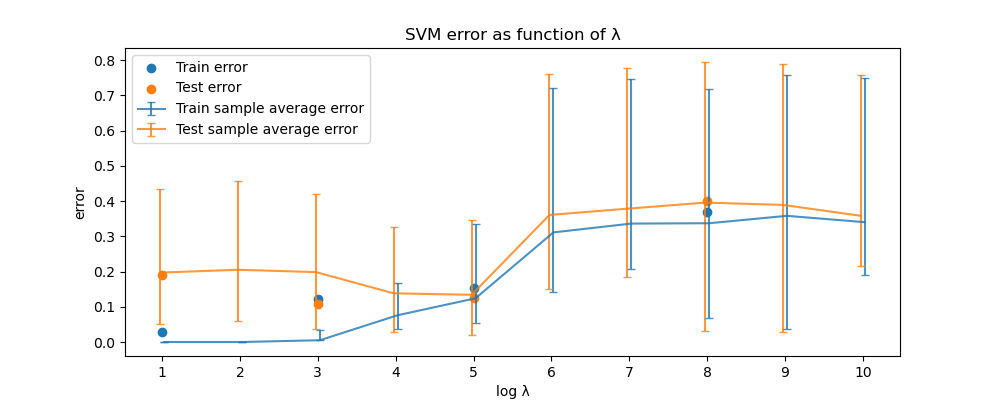
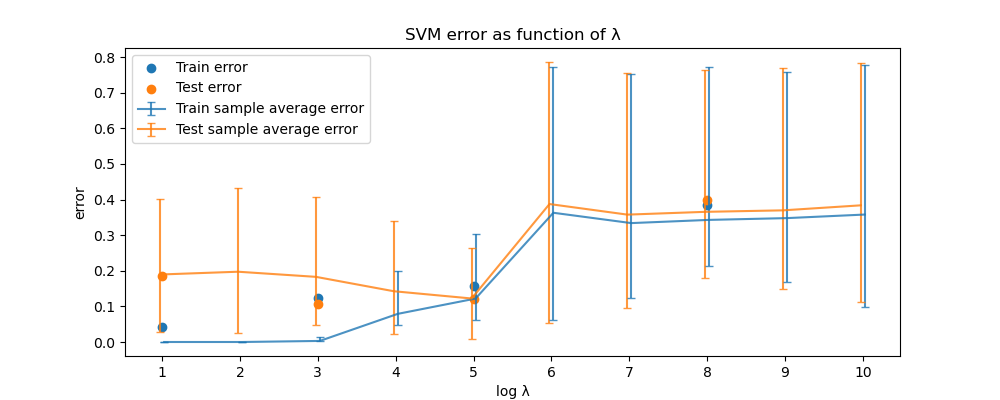
placed Q2 file as function in softsvm

diff --git a/ex2/softsvm.py b/ex2/softsvm.py
@@ -74,9 +74,133 @@ def simple_test():
     # this line should print the classification of the i'th test sample (1 or -1).
     print(f"The {i}'th test sample was classified as {predicty}")
 
+def Q2():
+    data = np.load('ex2q2_mnist.npz', allow_pickle=True)
+    trainX, testX = data['Xtrain'], data['Xtest']
+    trainY, testY = data['Ytrain'], data['Ytest']
+
+
+
+    def predict(w: np.array, testX: np.array):
+        """
+        :param w: linear predictor: numpy array of shape (d, 1)
+        :param testX: samples to calssify: numpy array of shape (m, d)
+        :return: predictions: numpy array of shape (m, 1)
+        """
+        return np.array([[np.sign(example @ w) for example in testX]])
+
+
+    def error(real_labels, predicted_labels):
+        """
+        :return: average of difference between two np arrays of shape (1,m)
+        """
+        return np.mean(real_labels != predicted_labels)
+
+
+    def get_random_sample(m: int, trainX: np.array, trainY: np.array):
+        """
+        :param m: sample size
+        :param trainX: all samples: numpy array of shape (k >= m, d)
+        :param: trainY: all labels: numpy array of shape (k >=m, 1)
+        :return: _trainX, _trainY: samples and ther labels. numpy arrays of shape (m, d), (m, 1)  
+        """
+        indices = np.random.permutation(trainX.shape[0])
+        _trainX = trainX[indices[:m]]
+        _trainY = trainY[indices[:m]]
+        return (_trainX, _trainY)
+
+
+    def get_single_error(m, l):
+        """
+        :param m: sample size
+        :param l: the parameter lambda of the soft SVM algorithm
+        :return: tuple of error on train set, error on test set
+        """
+        _trainX, _trainY = get_random_sample(m, trainX, trainY)
+        w = softsvm(l, _trainX, _trainY)
+
+        train_error = error(_trainY, predict(w, _trainX).flatten())
+
+        test_error = error(testY, predict(w, testX).flatten())
+
+        return (train_error, test_error)
+
+
+    def get_avg_error(m: int, log_lambdas: np.array, times: int):
+        """
+        :param m: sample size
+        :param lambdas: the parameter lambda of the soft SVM algorithm
+        :param times: number of times to test for each lambda
+        :return: dictionary of all the calculated values needed to plot
+        """
+        lambdas = np.power(10, log_lambdas)
+
+        # errors.shape == (l, times)
+        # errors[i][j][0] = train error of the j'th time we ran the expirement with lambdas[i]
+        # errors[i][j][1] = test error of the j'th time we ran the expirement with lambdas[i]
+        errors = np.array([[get_single_error(m, l)
+                        for i in range(times)] for l in lambdas])
+        train_errors = errors[:, :, 0]
+        test_errors = errors[:, :, 1]
+
+        # train_min_values[i] is the minimum train error with lambas[i]
+        train_min_values = np.min(train_errors, axis=1)
+        train_max_values = np.max(train_errors, axis=1)
+        train_avg_values = np.mean(train_errors, axis=1)
+
+        test_min_values = np.min(test_errors, axis=1)
+        test_max_values = np.max(test_errors, axis=1)
+        test_avg_values = np.mean(test_errors, axis=1)
+
+        return {
+            "log_lambdas": log_lambdas,
+            "train_min_values": train_min_values,
+            "train_max_values": train_max_values,
+            "train_avg_values": train_avg_values,
+            "test_min_values": test_min_values,
+            "test_max_values": test_max_values,
+            "test_avg_values": test_avg_values
+        }
+
+
+    def plot(exp1_calc: dict, exp2_calc: dict, title: str):
+
+        plt.figure(figsize=(10, 4))
+        ax = plt.axes()
+        ax.set(xlabel="log λ", ylabel="error",
+            title=title,
+            xticks=exp1_calc["log_lambdas"])
+
+        # first experiment
+        capsize, alpha = 3, 0.8
+        params =  { capsize
+        }
+        plt.errorbar(x=exp1_calc["log_lambdas"] + 0.025, y=exp1_calc["train_avg_values"],
+                    yerr=[exp1_calc["train_min_values"], exp1_calc["train_max_values"]],
+                    label="Train sample average error", capsize=capsize, alpha=alpha)
+
+        plt.errorbar(x=exp1_calc["log_lambdas"] - 0.025, y=exp1_calc["test_avg_values"],
+                    yerr=[exp1_calc["test_min_values"], exp1_calc["test_max_values"]],
+                    label="Test sample average error", capsize=capsize, alpha=alpha)
+
+        # second experiment
+        plt.scatter(exp2_calc["log_lambdas"], exp2_calc["train_avg_values"], label="Train error")
+        plt.scatter(exp2_calc["log_lambdas"], exp2_calc["test_avg_values"], label="Test error")
+        
+        plt.legend(loc="best")
+        plt.savefig(f"{title}.png")
+
+
+    def solve_Q2():
+        experiment1 = get_avg_error(100, np.arange(1, 11), 10)
+        experiment2 = get_avg_error(1000, [1, 3, 5, 8], 1)
+        plot(experiment1, experiment2,  "SVM error as function of λ")
+
+    solve_Q2()
 
 if __name__ == '__main__':
     # before submitting, make sure that the function simple_test runs without errors
     simple_test()
 
     # here you may add any code that uses the above functions to solve question 2
+    Q2()
